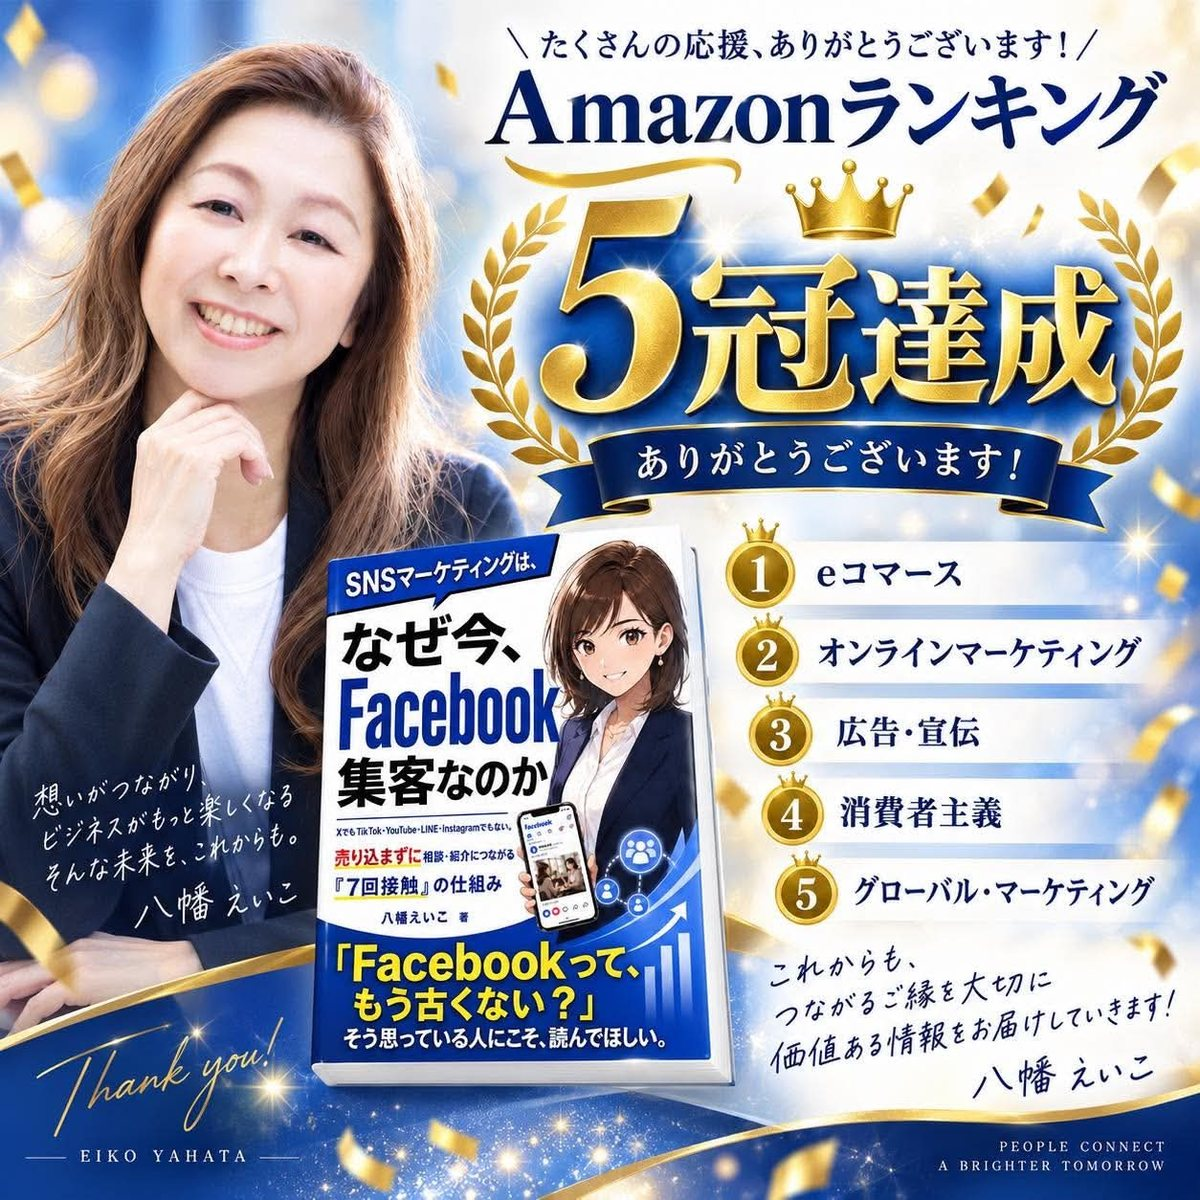
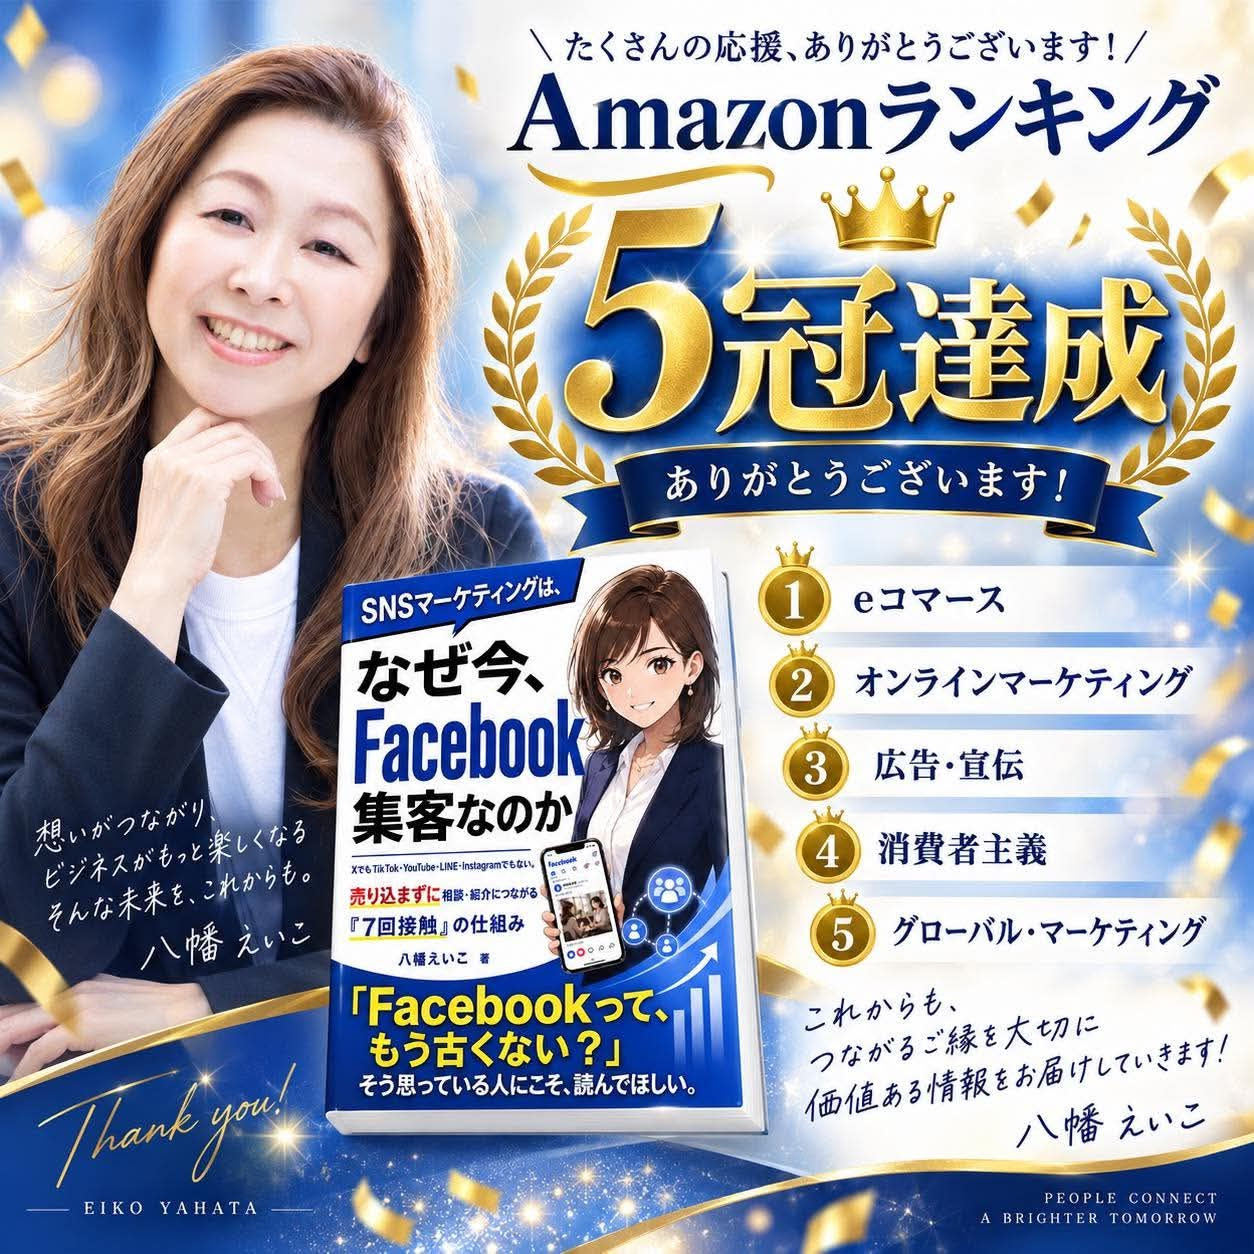
fix: book v1.10.1 グラフィックは原本(1254px・227KB)をそのまま配信(再圧縮で増えていた)
Claude-Session: https://claude.ai/code/session_01WxrWK2LzDXhFLKydvjPBh9

Changed region(s): [[0.3392, 0.7092, 0.4008, 0.74]]

diff --git a/book.html b/book.html
@@ -10,10 +10,10 @@
 <meta property="og:description" content="売り込まずに相談・紹介につながる「7回接触」の仕組み。出版記念特典も受け取れます。">
 <meta property="og:url" content="https://eikopr.com/book.html">
 <meta property="og:image" content="https://eikopr.com/assets/book/thanks_5crowns.jpg">
-<meta property="og:image:width" content="1200">
-<meta property="og:image:height" content="1200">
+<meta property="og:image:width" content="1254">
+<meta property="og:image:height" content="1254">
 <meta name="twitter:card" content="summary_large_image">
-<!-- book.html v1.10.0 えいこさんの告知グラフィック(5冠達成・assets/book/thanks_5crowns.jpg)をヒーロー先頭に+四冠→5冠(グローバル・マーケティングを追加)+OGP 画像をこのグラフィックに(9/7 SAT「LPにこちらを入れて」)。v1.9.1 四冠は発売日 9/6 の達成(SAT「昨日取ってた」)=日付表記を発売日に。v1.9.0 四冠達成へ切替(9/7 SAT・えいこさん報告=オンラインマーケティング/広告・宣伝/消費者主義/eコマースの 4 カテゴリで 1位。KAI 実測 11:10 は商品ページ上位3=オンラインM 1位/広告・宣伝 1位/SNS・ブログ 2位・消費者主義一覧は別本が #1=時点差)。v1.8.7 360px 幅の一文字残り(た。)も改行指定で解消。v1.8.6 THANK YOU 本文の語中折れ(カテゴ／リ)と一文字残り(ん。)を改行指定で解消。v1.8.5 スマホ用 CSS を基本規則の後ろへ移動(前に置いたため font-size が効いていなかった)。v1.8.4 THANK YOU はスマホで実幅 302px(.thread .inner の左余白 64px)なので見出し 5.9vw・本文 14.5px・「一歩に／なりますように」で固定。v1.8.3 スマホ幅の改行を整える(SAT「中央揃えの改行がスマホで見るとバランス悪い」): 祝の札の順位は 1 行 1 順位(語中で折らない)・THANK YOU の見出し/リード/本文は単位で固定。v1.8.2 THANK YOU の章を左揃えに(SAT「中央揃えはやめましょう」)。v1.8.1 祝の札の改行を三段(Amazon／ベストセラー1位／獲得！！)に固定(語中で折れていた)。v1.8.0 祝と感謝を前面に(9/7 SAT「コミュニティメンバーへの感謝を前面に・もっと目立つ・獲得！！」): ヒーロー先頭に「Amazon ベストセラー1位 獲得！！」の祝の札(.win)+コミュニティへの感謝／THANK YOU の章の見出しを「コミュニティのみなさん ありがとうございます！！」に・本文をコミュニティ主語に／og:title 更新。v1.7.1 順位を商品ページの実測に更新(9/7 朝: 広告・宣伝 1位・オンラインマーケティング 1位・SNS・ブログ 2位・Kindleストア全体 445位)。v1.7.0 感謝のページへ(9/7 SAT): Amazon Kindle本「広告・宣伝」カテゴリ ベストセラー1位(9/7 朝 実測)を札に・ヒーロー直下に THANK YOU の章(文面は叩き台=えいこさんの言葉に差し替え可)・meta/OGP にも一文。Amazon 実URL(v1.6.0)と時刻ゲート(特典CTA: 09-06 06:00〜09-08 23:59 JST)は継続 -->
+<!-- book.html v1.10.1 グラフィックは原本 1254px(227KB)をそのまま(再圧縮で 329KB に増えたため)。v1.10.0 えいこさんの告知グラフィック(5冠達成・assets/book/thanks_5crowns.jpg)をヒーロー先頭に+四冠→5冠(グローバル・マーケティングを追加)+OGP 画像をこのグラフィックに(9/7 SAT「LPにこちらを入れて」)。v1.9.1 四冠は発売日 9/6 の達成(SAT「昨日取ってた」)=日付表記を発売日に。v1.9.0 四冠達成へ切替(9/7 SAT・えいこさん報告=オンラインマーケティング/広告・宣伝/消費者主義/eコマースの 4 カテゴリで 1位。KAI 実測 11:10 は商品ページ上位3=オンラインM 1位/広告・宣伝 1位/SNS・ブログ 2位・消費者主義一覧は別本が #1=時点差)。v1.8.7 360px 幅の一文字残り(た。)も改行指定で解消。v1.8.6 THANK YOU 本文の語中折れ(カテゴ／リ)と一文字残り(ん。)を改行指定で解消。v1.8.5 スマホ用 CSS を基本規則の後ろへ移動(前に置いたため font-size が効いていなかった)。v1.8.4 THANK YOU はスマホで実幅 302px(.thread .inner の左余白 64px)なので見出し 5.9vw・本文 14.5px・「一歩に／なりますように」で固定。v1.8.3 スマホ幅の改行を整える(SAT「中央揃えの改行がスマホで見るとバランス悪い」): 祝の札の順位は 1 行 1 順位(語中で折らない)・THANK YOU の見出し/リード/本文は単位で固定。v1.8.2 THANK YOU の章を左揃えに(SAT「中央揃えはやめましょう」)。v1.8.1 祝の札の改行を三段(Amazon／ベストセラー1位／獲得！！)に固定(語中で折れていた)。v1.8.0 祝と感謝を前面に(9/7 SAT「コミュニティメンバーへの感謝を前面に・もっと目立つ・獲得！！」): ヒーロー先頭に「Amazon ベストセラー1位 獲得！！」の祝の札(.win)+コミュニティへの感謝／THANK YOU の章の見出しを「コミュニティのみなさん ありがとうございます！！」に・本文をコミュニティ主語に／og:title 更新。v1.7.1 順位を商品ページの実測に更新(9/7 朝: 広告・宣伝 1位・オンラインマーケティング 1位・SNS・ブログ 2位・Kindleストア全体 445位)。v1.7.0 感謝のページへ(9/7 SAT): Amazon Kindle本「広告・宣伝」カテゴリ ベストセラー1位(9/7 朝 実測)を札に・ヒーロー直下に THANK YOU の章(文面は叩き台=えいこさんの言葉に差し替え可)・meta/OGP にも一文。Amazon 実URL(v1.6.0)と時刻ゲート(特典CTA: 09-06 06:00〜09-08 23:59 JST)は継続 -->
 <link rel="preconnect" href="https://fonts.googleapis.com">
 <link rel="preconnect" href="https://fonts.gstatic.com" crossorigin>
 <link href="https://fonts.googleapis.com/css2?family=Jost:ital,wght@0,500;0,600;1,500;1,600&family=Zen+Maru+Gothic:wght@500;700;900&family=Zen+Kaku+Gothic+New:wght@400;500;700&display=swap" rel="stylesheet">
@@ -284,7 +284,7 @@ footer .f-home{display:inline-block;margin-top:12px;font-size:13px;color:var(--g
 <!-- 1. ヒーロー -->
 <div class="hero-lead">
   <div class="inner">
-    <img class="win-visual" src="assets/book/thanks_5crowns.jpg" alt="Amazonランキング 5冠達成 ありがとうございます！ 八幡えいこ" width="1200" height="1200">
+    <img class="win-visual" src="assets/book/thanks_5crowns.jpg" alt="Amazonランキング 5冠達成 ありがとうございます！ 八幡えいこ" width="1254" height="1254">
     <div class="win">
       <p class="win-eyebrow"><svg width="15" height="15" viewBox="0 0 24 24" fill="none" stroke="currentColor" stroke-width="2.2" stroke-linecap="round" stroke-linejoin="round" aria-hidden="true"><circle cx="12" cy="8" r="6"/><path d="M8.5 13.5 7 22l5-3 5 3-1.5-8.5"/></svg>発売日 · 2026年9月6日</p>
       <p class="win-title"><span class="win-amz">Amazon</span><span class="win-best">ベストセラー<span class="win-rank">1位</span></span><span class="win-get">5冠達成！！</span></p>
@@ -453,7 +453,7 @@ footer .f-home{display:inline-block;margin-top:12px;font-size:13px;color:var(--g
 <footer>
   <p class="f-mark">bE-side you</p>
   <p class="f-note">&copy; eiko PR</p>
-  <p class="f-ver">book v1.10.0</p>
+  <p class="f-ver">book v1.10.1</p>
 </footer>
 
 <script>
